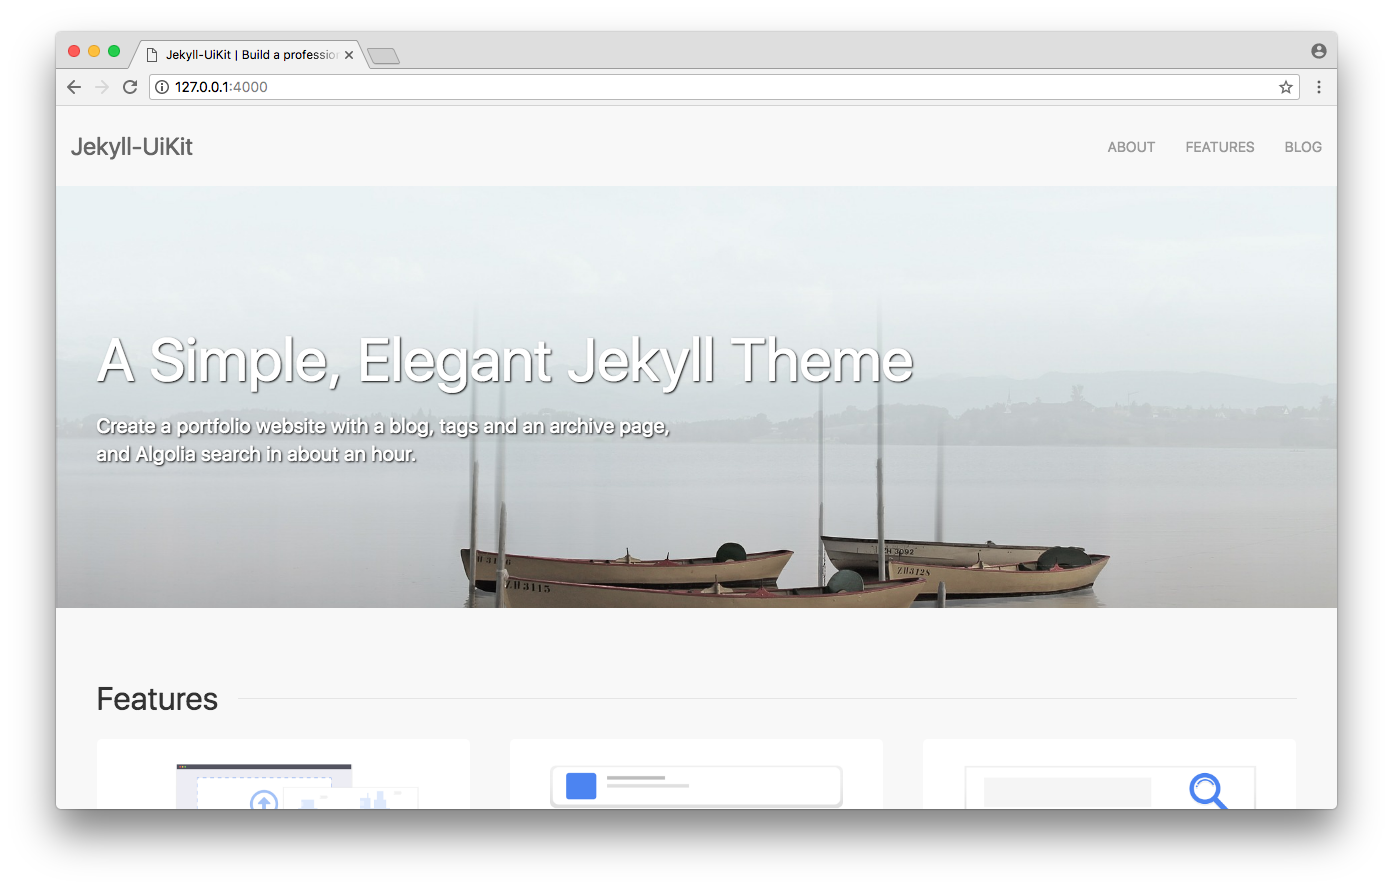
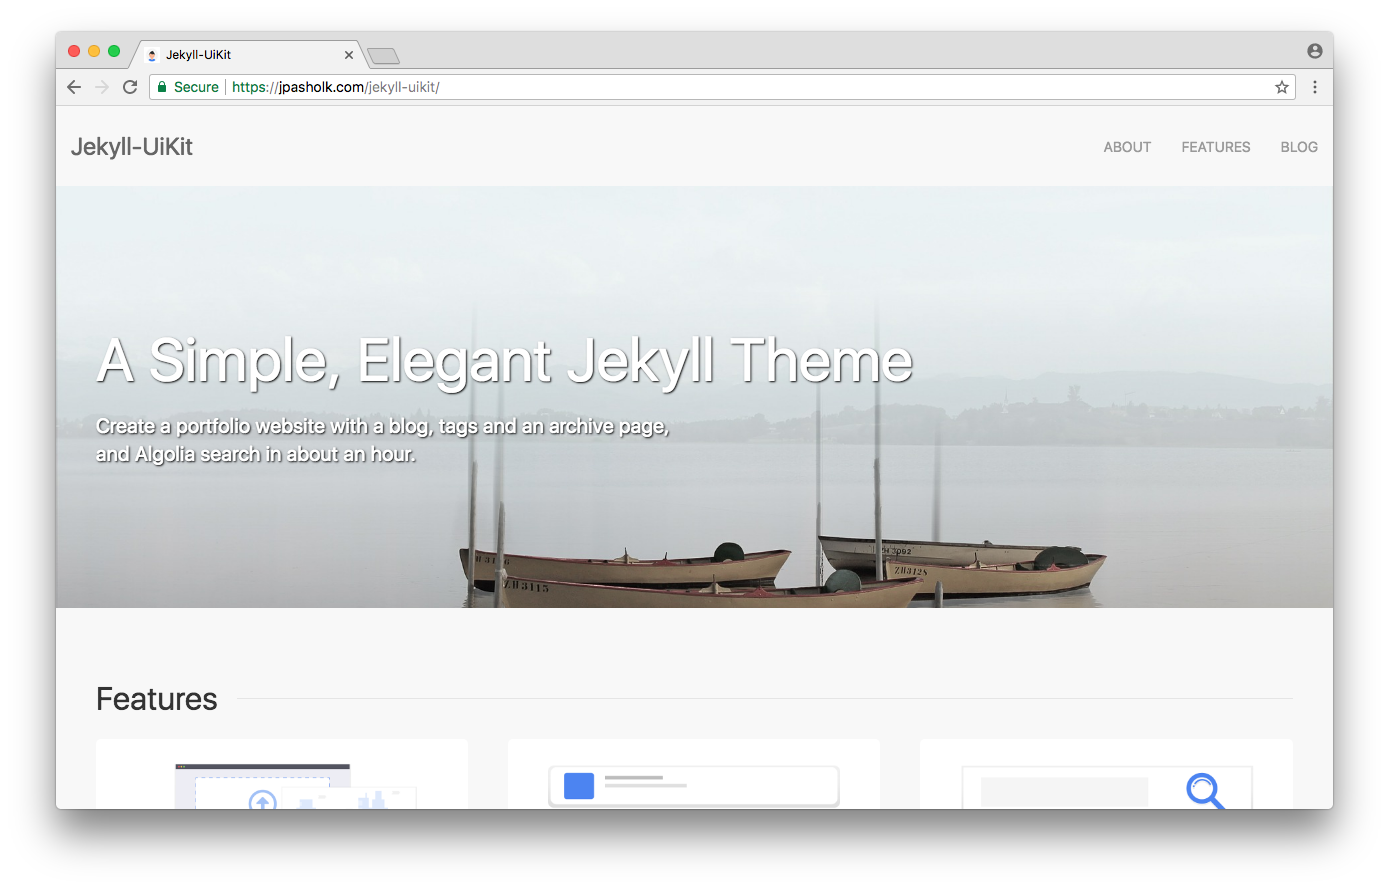
Added credits, updated gem, changed screenshot.

diff --git a/about.md b/about.md
@@ -42,4 +42,6 @@ This theme wouldn't have been made possible if it wasn't for:
 
 * [StackOverflow](https://stackoverflow.com/search?q=Jekyll){:target="_ blank"} where would we be without StackOverflow?
 
+* [unDraw.co](https://undraw.co) and [Unsplash](https://unsplash.com) for the awesome images used around the site.
+
 * [Michael Woolweaver](https://github.com/mwoolweaver){:target="_ blank"} - a good friend of mine who gave me a nudge in the right direction.

diff --git a/README.md b/README.md
@@ -36,6 +36,8 @@ This theme wouldn't have been made possible if it wasn't for:
 
 * [StackOverflow](https://stackoverflow.com/search?q=Jekyll) where would we be without StackOverflow?
 
+* [unDraw.co](https://undraw.co) and [Unsplash](https://unsplash.com) for the awesome images used around the site.
+
 * [Michael Woolweaver](https://github.com/mwoolweaver) - a good friend of mine who gave me a nudge in the right direction.
 
 
